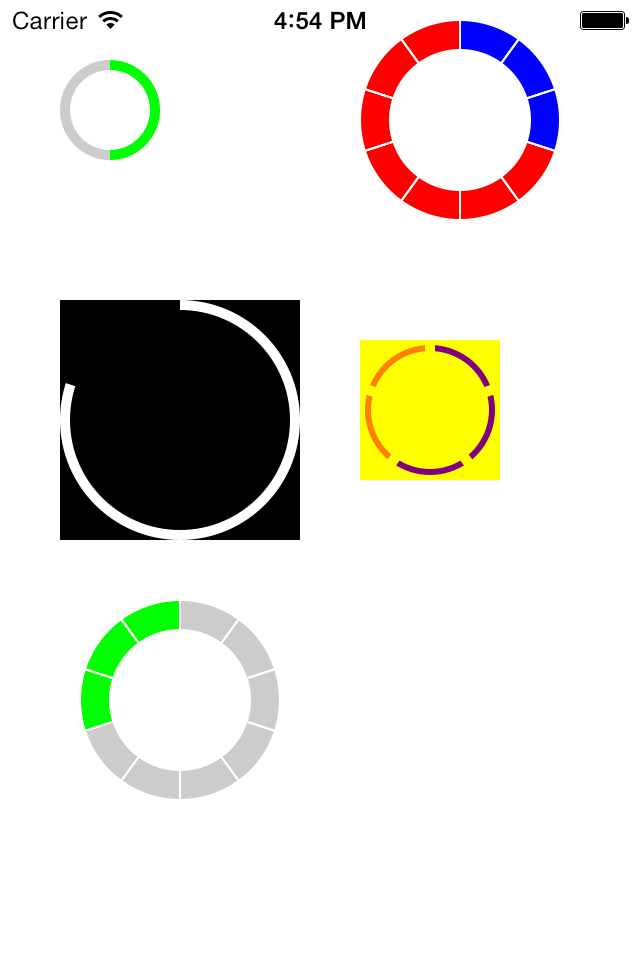
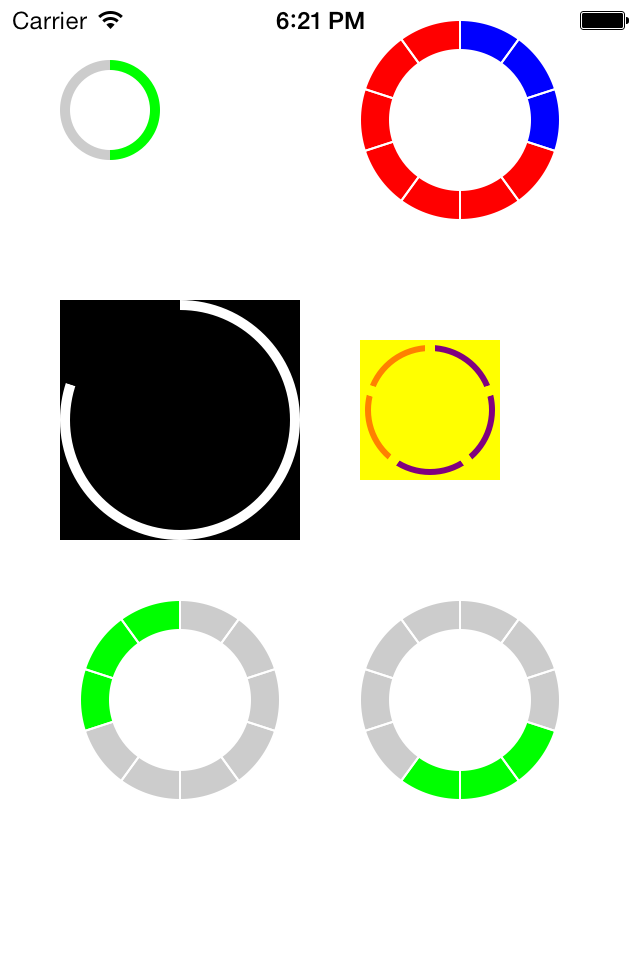
Renamed progressCurrent to progressCounter. Updated screenshot and documentation.

Changed region(s): [[0.5625, 0.625, 0.875, 0.8438], [0.4375, 0.0, 0.5625, 0.0312]]

diff --git a/MDRadialProgress/ViewController.m b/MDRadialProgress/ViewController.m
@@ -20,7 +20,7 @@
     MDRadialProgressView *radialView = [[MDRadialProgressView alloc] initWithFrame:frame];
     
     radialView.progressTotal = 4;
-    radialView.progressCurrent = 2;
+    radialView.progressCounter = 2;
     radialView.thickness = 10;
     radialView.backgroundColor = [UIColor whiteColor];
     radialView.sliceDividerHidden = YES;
@@ -31,7 +31,7 @@
     MDRadialProgressView *radialView2 = [[MDRadialProgressView alloc] initWithFrame:frame];
 	
 	radialView2.progressTotal = 10;
-    radialView2.progressCurrent = 3;
+    radialView2.progressCounter = 3;
 	radialView2.completedColor = [UIColor blueColor];
 	radialView2.incompletedColor = [UIColor redColor];
     radialView2.thickness = 30;
@@ -47,7 +47,7 @@
     MDRadialProgressView *radialView3 = [[MDRadialProgressView alloc] initWithFrame:frame];
 	
 	radialView3.progressTotal = 5;
-    radialView3.progressCurrent = 4;
+    radialView3.progressCounter = 4;
 	radialView3.completedColor = [UIColor whiteColor];
 	radialView3.incompletedColor = [UIColor blackColor];
     radialView3.thickness = 10;
@@ -61,7 +61,7 @@
     MDRadialProgressView *radialView4 = [[MDRadialProgressView alloc] initWithFrame:frame];
     
     radialView4.progressTotal = 5;
-    radialView4.progressCurrent = 3;
+    radialView4.progressCounter = 3;
     radialView4.thickness = 15;
 	radialView4.incompletedColor = [UIColor orangeColor];
 	radialView4.completedColor = [UIColor purpleColor];
@@ -77,7 +77,7 @@
     MDRadialProgressView *radialView5 = [[MDRadialProgressView alloc] initWithFrame:frame];
 	
 	radialView5.progressTotal = 10;
-    radialView5.progressCurrent = 3;
+    radialView5.progressCounter = 3;
     radialView5.thickness = 30;
     radialView5.backgroundColor = [UIColor whiteColor];
     radialView5.sliceDividerHidden = NO;
@@ -93,7 +93,7 @@
     MDRadialProgressView *radialView6 = [[MDRadialProgressView alloc] initWithFrame:frame];
 	
 	radialView6.progressTotal = 10;
-    radialView6.progressCurrent = 3;
+    radialView6.progressCounter = 3;
     radialView6.thickness = 30;
     radialView6.backgroundColor = [UIColor whiteColor];
     radialView6.sliceDividerHidden = NO;

diff --git a/MDRadialProgress/MDRadialProgressView.m b/MDRadialProgress/MDRadialProgressView.m
@@ -92,9 +92,9 @@
         
         CGFloat endAngle;
         if (self.clockwise) {
-            endAngle = originAngle + sliceAngle * self.progressCurrent;
+            endAngle = originAngle + sliceAngle * self.progressCounter;
         } else {
-            endAngle = originAngle - sliceAngle * self.progressCurrent;
+            endAngle = originAngle - sliceAngle * self.progressCounter;
         }
         
 		CGContextAddArc(context, center.x, center.y, circleRadius, originAngle, endAngle, cgClockwise);
@@ -128,7 +128,7 @@
     CGPoint center = CGPointMake(viewSize.width / 2, viewSize.height / 2);
     CGFloat radius = viewSize.width / 2;
     [self drawSlices:self.progressTotal
-		   completed:self.progressCurrent
+		   completed:self.progressCounter
 			  radius:radius
 			  center:center
 		   inContext:contextRef];

diff --git a/MDRadialProgress/MDRadialProgressView.h b/MDRadialProgress/MDRadialProgressView.h
@@ -11,7 +11,7 @@
 @interface MDRadialProgressView : UIView
 
 @property (assign, nonatomic) NSUInteger progressTotal;
-@property (assign, nonatomic) NSUInteger progressCurrent;
+@property (assign, nonatomic) NSUInteger progressCounter;
 
 @property (strong, nonatomic) UIColor *completedColor;
 @property (strong, nonatomic) UIColor *incompletedColor;

diff --git a/README.md b/README.md
@@ -28,28 +28,34 @@ CGRect frame = CGRectMake(30, 30, 50, 50);
 MDRadialProgressView *radialView = [[MDRadialProgressView alloc] initWithFrame:frame];
 
 // Total number of steps    
-radialView.progressTotal = 5;
+radialView.progressTotal = 10;
 // Number of steps completed
-radialView.progressCurrent = 2;
+radialView.progressCounter = 2;
 
-// Customisation (see red and blue example in the screenshot above)
+// Customisations (all optional)
 radialView.completedColor = [UIColor blueColor];
 radialView.incompletedColor = [UIColor redColor];
 radialView.thickness = 30;
+
 // Be sure to use the same color for background and sliceDivider to simulate
 // the space between one step and another.
 radialView.backgroundColor = [UIColor whiteColor];
 radialView.sliceDividerColor = [UIColor whiteColor];
-// The first and third example uses sliceDividerHidden = YES
+
+// if sliceDividerHidden is set to YES there won't be any separation between
+// each progress step (see first and third example in the picture).
 radialView.sliceDividerHidden = NO;
 radialView.sliceDividerThickness = 1;
 
-// Draw the progress counterclockwise
+// Draw the progress counterclockwise if you want
 radialView.clockwise = NO;
+
+// Start from the fifth slice (counting starts from 1)
+radialView.startSlice = 5
 ```
 
 ## Contributors
-[Marc Audefroy](https://github.com/MarcAudefroy) for the clockwise/counterclockwise property.
+[Marc Audefroy](https://github.com/MarcAudefroy) for the clockwise/counterclockwise and startSlice features.
 
 ## License (MIT)
 Copyright (c) 2013 Marco Dinacci
@@ -61,7 +67,7 @@ use, copy, modify, merge, publish, distribute, sublicense, and/or sell copies
 of the Software, and to permit persons to whom the Software is furnished to do
 so, subject to the following conditions:
 
-The above copyright notice and this permission notice shall be included in all
+The above copyright notice and this permission notice shall be included in all 
 copies or substantial portions of the Software.
 
 THE SOFTWARE IS PROVIDED "AS IS", WITHOUT WARRANTY OF ANY KIND, EXPRESS OR
